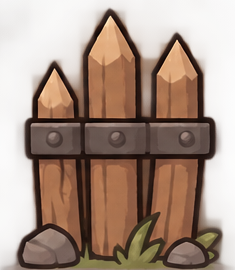
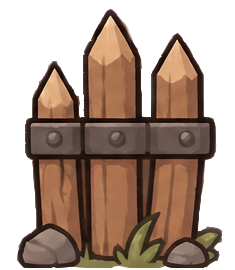
fix: Spices image fix

Changed region(s): [[0.0, 0.0, 1.0, 1.0], [0.0596, 0.4444, 0.1787, 0.8889]]

diff --git a/miniGame3/scripts/data.js b/miniGame3/scripts/data.js
@@ -16,6 +16,8 @@ export const obstacles = [
 ];
 
 export const spikes = [
-  { x: 6.5 * CRATE_SIZE, y: -CRATE_SIZE, w: CRATE_SIZE, h: CRATE_SIZE },
+  { x: 6 * CRATE_SIZE, y: -CRATE_SIZE, w: CRATE_SIZE, h: CRATE_SIZE },
+  { x: 7 * CRATE_SIZE, y: -CRATE_SIZE, w: CRATE_SIZE, h: CRATE_SIZE },
+
   { x: 18 * CRATE_SIZE, y: -CRATE_SIZE, w: CRATE_SIZE, h: CRATE_SIZE },
 ];
